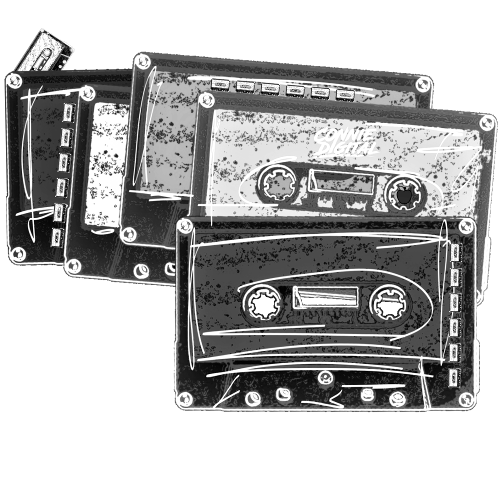
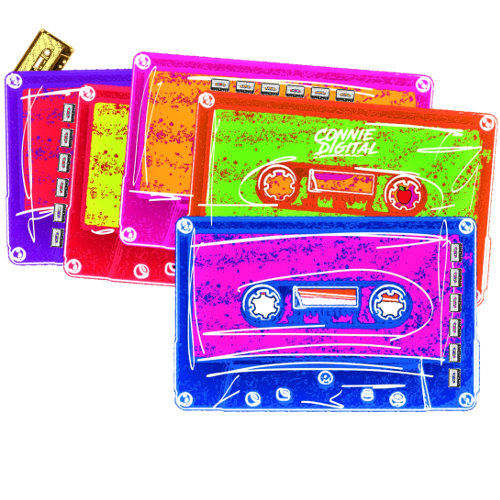
Add hue and RGB control to layers

diff --git a/layered_static/v1.js b/layered_static/v1.js
@@ -6,8 +6,15 @@ const KEY_FIXED_ROTATION = "fixed-rotation";
 const KEY_ORBIT_ROTATION = "orbit-rotation";
 const KEY_ANCHOR = "anchor";
 const KEY_SCALE = "scale";
+
 const KEY_COLOR = "color";
 const KEY_ALPHA = "alpha";
+const KEY_HUE = "hue";
+
+const KEY_RED = "red";
+const KEY_GREEN = "green";
+const KEY_BLUE = "blue";
+
 const KEY_FIXED_POSITION = "fixed-position";
 const KEY_RELATIVE_POSITION = "relative-position";
 const KEY_X = "x";
@@ -256,9 +263,47 @@ async function renderLayer(contract, currentImage, layout, layer, layerImage) {
 
 	// adjust the color
 	if (KEY_COLOR in layer) {
-		var alpha = await readIntProperty(contract, layer[KEY_COLOR], KEY_ALPHA, "Layer Alpha"); 
+		if (KEY_ALPHA in layer[KEY_COLOR]) {
+			var alpha = await readIntProperty(contract, layer[KEY_COLOR], KEY_ALPHA, "Layer Color Alpha"); 
 
-		layerImage.opacity(alpha / 100);
+			layerImage.opacity(alpha / 100);
+		}
+		if (KEY_HUE in layer[KEY_COLOR]) {
+			var hue = await readIntProperty(contract, layer[KEY_COLOR], KEY_HUE, "Layer Color Hue"); 
+
+			layerImage.color([
+				{
+					apply: 'hue', params: [hue]
+				}
+			]);
+		}
+		if (KEY_RED in layer[KEY_COLOR]) {
+			var red = await readIntProperty(contract, layer[KEY_COLOR], KEY_RED, "Layer Color Red"); 
+
+			layerImage.color([
+				{
+					apply: 'red', params: [red]
+				}
+			]);
+		}
+		if (KEY_GREEN in layer[KEY_COLOR]) {
+			var green = await readIntProperty(contract, layer[KEY_COLOR], KEY_GREEN, "Layer Color Green"); 
+
+			layerImage.color([
+				{
+					apply: 'green', params: [green]
+				}
+			]);
+		}
+		if (KEY_BLUE in layer[KEY_COLOR]) {
+			var blue = await readIntProperty(contract, layer[KEY_COLOR], KEY_BLUE, "Layer Color Blue"); 
+
+			layerImage.color([
+				{
+					apply: 'blue', params: [blue]
+				}
+			]);
+		}
 	}
 
 	// composite this layer onto the current image
